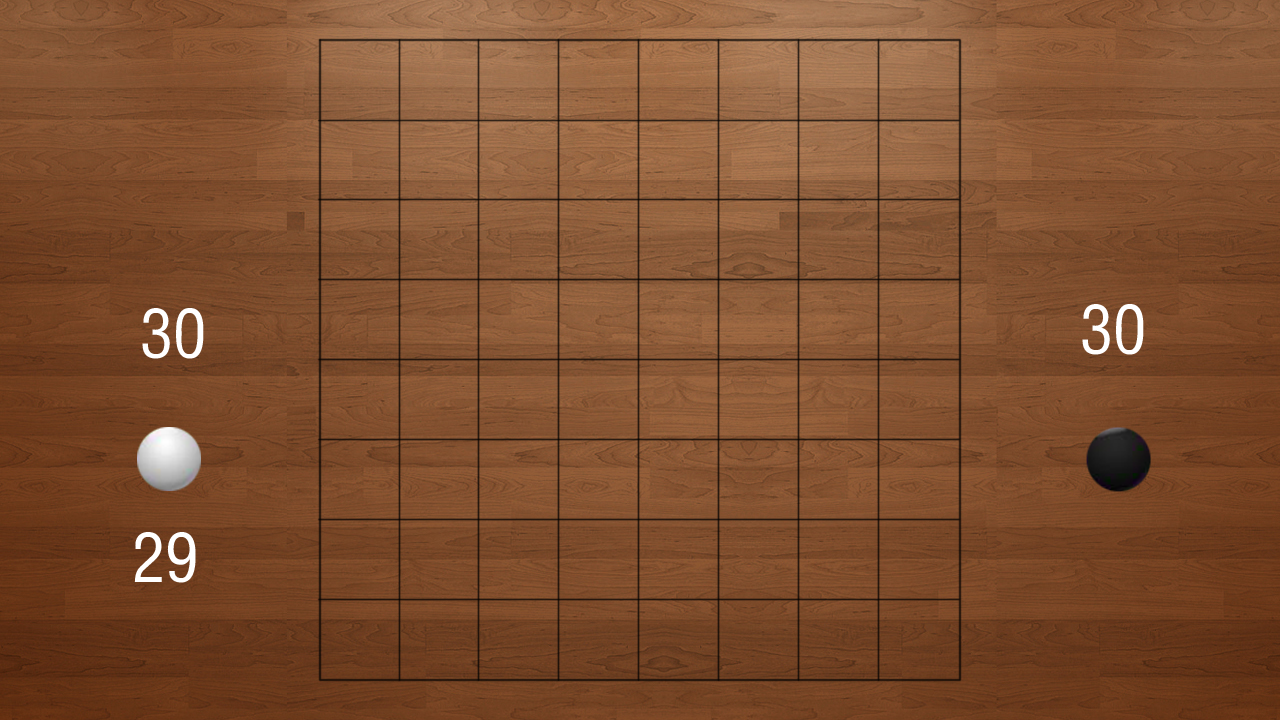
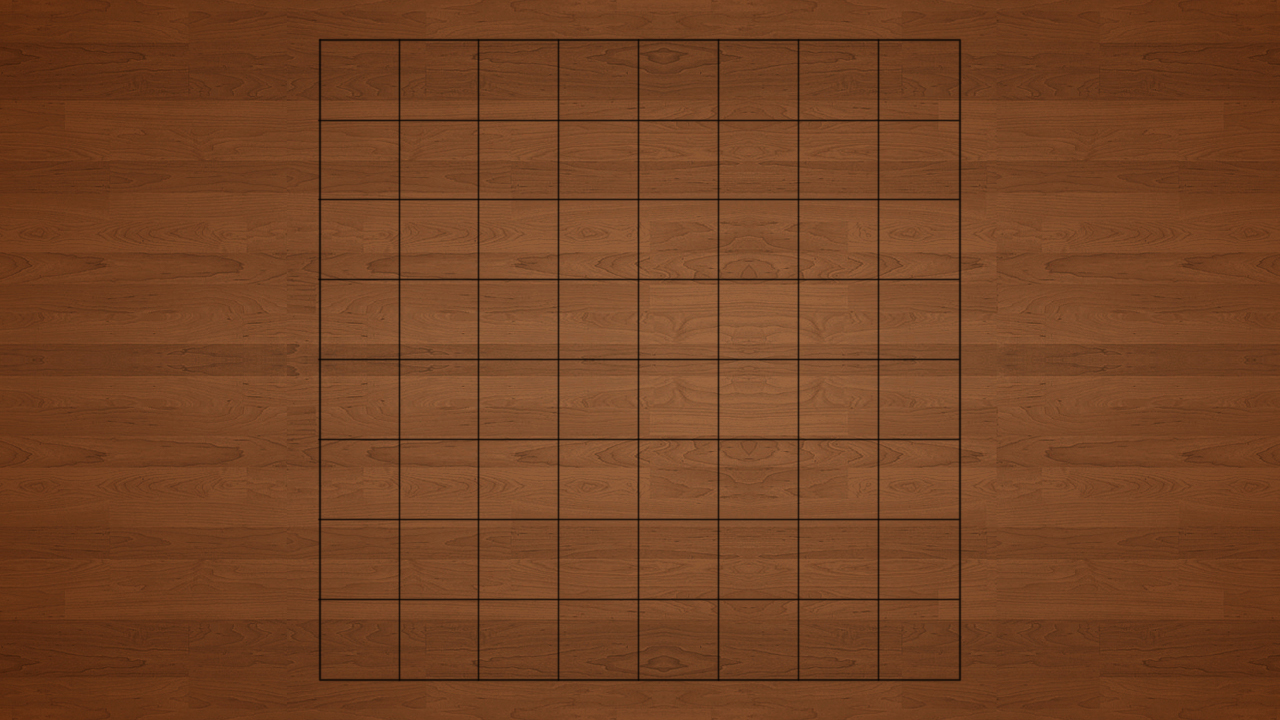
add RoleStatus

diff --git a/Classes/StoreLayer.cpp b/Classes/StoreLayer.cpp
@@ -16,4 +16,146 @@
  * =====================================================================================
  */
 
+#include "StoreLayer.h"
+
+bool StoreLayer::init()
+{
+	if(!CCLayer::init())
+	{
+		return false;
+	
+	}
+
+//	CCSize size = CCDirector::sharedDirector()->getVisibleSize();
+
+	m_store = CCLabelTTF::create("00","Arial",32);
+	addChild(m_store);
+
+	m_time = CCLabelTTF::create("00","Arial",32);
+	addChild(m_time);
+
+	//addChild(getRole());
+	this->scheduleUpdate();	
+
+	return true;
+
+
+}
+
+void StoreLayer::updateStore()
+{
+	char value[10];
+	sprintf(value,"%d",_store);
+	m_store->setString(value);
+
+}
+
+void StoreLayer::updateTime()
+{
+	char value[10];
+	sprintf(value,"%d",_time);
+	m_time->setString(value);
+
+}
+
+void StoreLayer::onExit()
+{
+//	m_store->release();
+//	m_time->release();
+	unscheduleUpdate();	
+
+}
+
+void StoreLayer::update(float dt)
+{
+	updateStore();
+	updateTime();
+
+}
+
+//***********WhiteStoreLayer******************//
+
+bool WhiteStoreLayer::init()
+{
+	if(!StoreLayer::init())
+	{
+		return false;	
+	}
+		
+	CCSize size = CCDirector::sharedDirector()->getVisibleSize();
+	
+	m_store->setPosition(ccp(150,size.height/2+100));
+	m_time->setPosition(ccp(150,size.height/2-100));
+
+
+	_Role = CCSprite::create("whitePiece.png");
+	_Role->setPosition(ccp(150,size.height/2));
+	addChild(_Role);
+	
+
+	return true;
+
+}
+//***********BlackStoreLayer************************//
+
+bool BlackStoreLayer::init()
+{
+	if(!StoreLayer::init())
+	{
+		return false;	
+	
+	}
+
+	CCSize size = CCDirector::sharedDirector()->getVisibleSize();
+	
+	m_store->setPosition(ccp(size.width-150,size.height/2+100));
+	m_time->setPosition(ccp(size.width-150,size.height/2-100));
+
+
+	_Role = CCSprite::create("blackPiece.png");
+	_Role->setPosition(ccp(size.width-150,size.height/2));
+	addChild(_Role);
+
+	return true;
+}
+
+
+
+
+
+
+
+
+
+
+
+
+
+
+
+
+
+
+
+
+
+
+
+
+
+
+
+
+
+
+
+
+
+
+
+
+
+
+
+
 

diff --git a/Classes/StoreLayer.h b/Classes/StoreLayer.h
@@ -3,13 +3,24 @@
 
 #include "cocos2d.h"
 
+USING_NS_CC;
+
 class StoreLayer : public cocos2d::CCLayer
 {
 public:
 	virtual bool init();
+	virtual void update(float dt);
+	virtual void onExit();
+	CC_SYNTHESIZE(CCSprite*,_Role,Role);
+	CC_SYNTHESIZE(int,_store,Store);
+	CC_SYNTHESIZE(int,_time,Time);
 
-
-
+    CCLabelTTF* m_store;
+	CCLabelTTF* m_time;
+	
+	virtual void updateStore();
+	virtual void updateTime();
+	CREATE_FUNC(StoreLayer);
 
 };
 
@@ -17,16 +28,15 @@ class WhiteStoreLayer : public StoreLayer
 {
 public:
 	virtual bool init();
-
-
-
+	CREATE_FUNC(WhiteStoreLayer);	
 };
 
 class BlackStoreLayer: public StoreLayer
 {
 public:
-	virtual bool init()
+	virtual bool init();
 
-
-
+	CREATE_FUNC(BlackStoreLayer);
 };
+
+#endif

diff --git a/Classes/GameScene.cpp b/Classes/GameScene.cpp
@@ -26,10 +26,17 @@ cocos2d::CCScene* GameScene::scene()
 	
 	GameScene *layer = GameScene::create();
 	scene->addChild(layer,1);
-	m_parentScene=scene;
+//	m_parentScene=scene;
 	//scene->addChild(GameScene::create());
 	ChessBoardLayer* chessLayer = ChessBoardLayer::create();
 	scene->addChild(chessLayer,0);
+
+//	WhiteStoreLayer* whiteStatus = WhiteStoreLayer::create(); 
+//	scene->addChild(whiteStatus);
+
+//	BlackStoreLayer* blackStatus = BlackStoreLayer::create();
+//	scene->addChild(blackStatus);
+
 	return scene;
 }
 

diff --git a/Classes/ChessBoardLayer.cpp b/Classes/ChessBoardLayer.cpp
@@ -30,7 +30,15 @@ bool ChessBoardLayer::init()
 	CCSize visible = CCDirector::sharedDirector()->getVisibleSize();
 	CCSprite *pSprite = CCSprite::create("gameBackGroud.png");
 	pSprite->setPosition(ccp(visible.width/2,visible.height/2));
-	this->addChild(pSprite);
+	addChild(pSprite);
+
+	m_whiteStatus = WhiteStoreLayer::create(); 
+	addChild(m_whiteStatus);
+
+	m_blackStatus = BlackStoreLayer::create();
+	addChild(m_blackStatus);
+
+
 	setTouchEnabled(true);
 	return true;
 

diff --git a/Classes/ChessBoardLayer.h b/Classes/ChessBoardLayer.h
@@ -2,6 +2,7 @@
 #define _CHESSBOARDLAYER_
 
 #include "cocos2d.h"
+#include "StoreLayer.h" 
 
 USING_NS_CC;
 
@@ -12,6 +13,9 @@ public:
 	virtual void ccTouchesBegan(CCSet* pTouches,CCEvent* pEvent);
 //	virtual void ccTouches
 	CREATE_FUNC(ChessBoardLayer);	
+private:
+	WhiteStoreLayer* m_whiteStatus;
+	BlackStoreLayer* m_blackStatus;
 
 };
 

diff --git a/Classes/GameScene.h b/Classes/GameScene.h
@@ -1,9 +1,13 @@
 #ifndef _GAMESCENE_H_
 #define _GAMESCENE_H_
 
+
 #include "cocos2d.h"
 #include "SelectWindow.h"
 #include "ChessBoardLayer.h"
+#include "StoreLayer.h"
+
+
 class GameScene : public cocos2d::CCLayer
 {
 
@@ -15,5 +19,6 @@ public:
 private:
     static	cocos2d::CCScene* m_parentScene;
 };
+
 
 #endif
